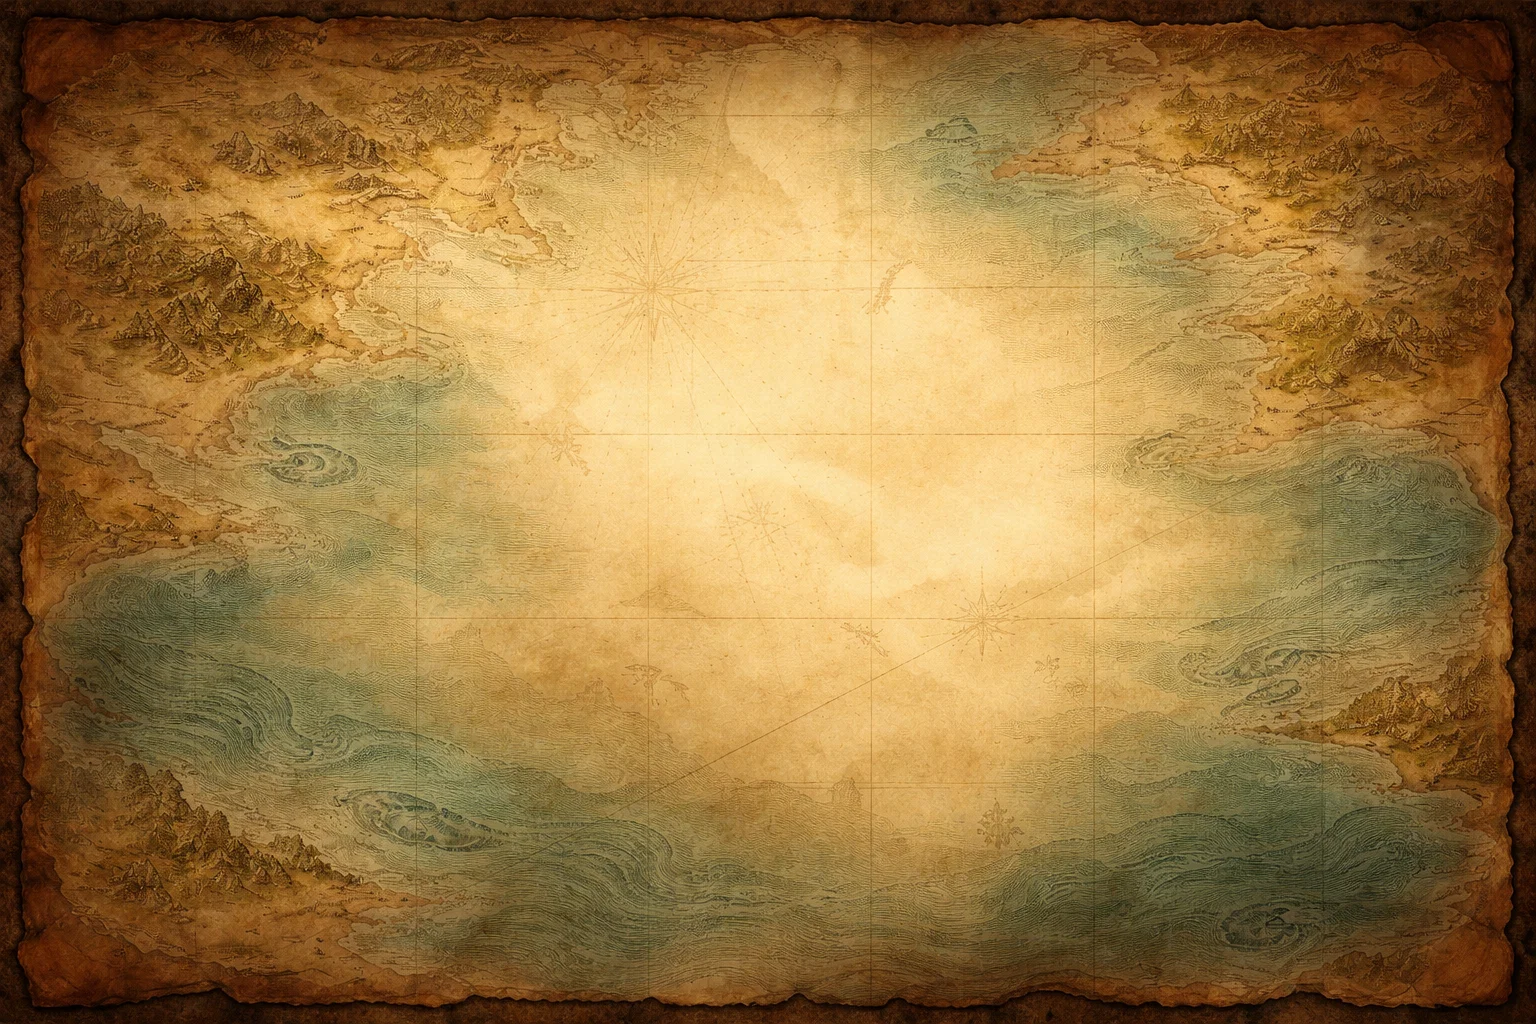
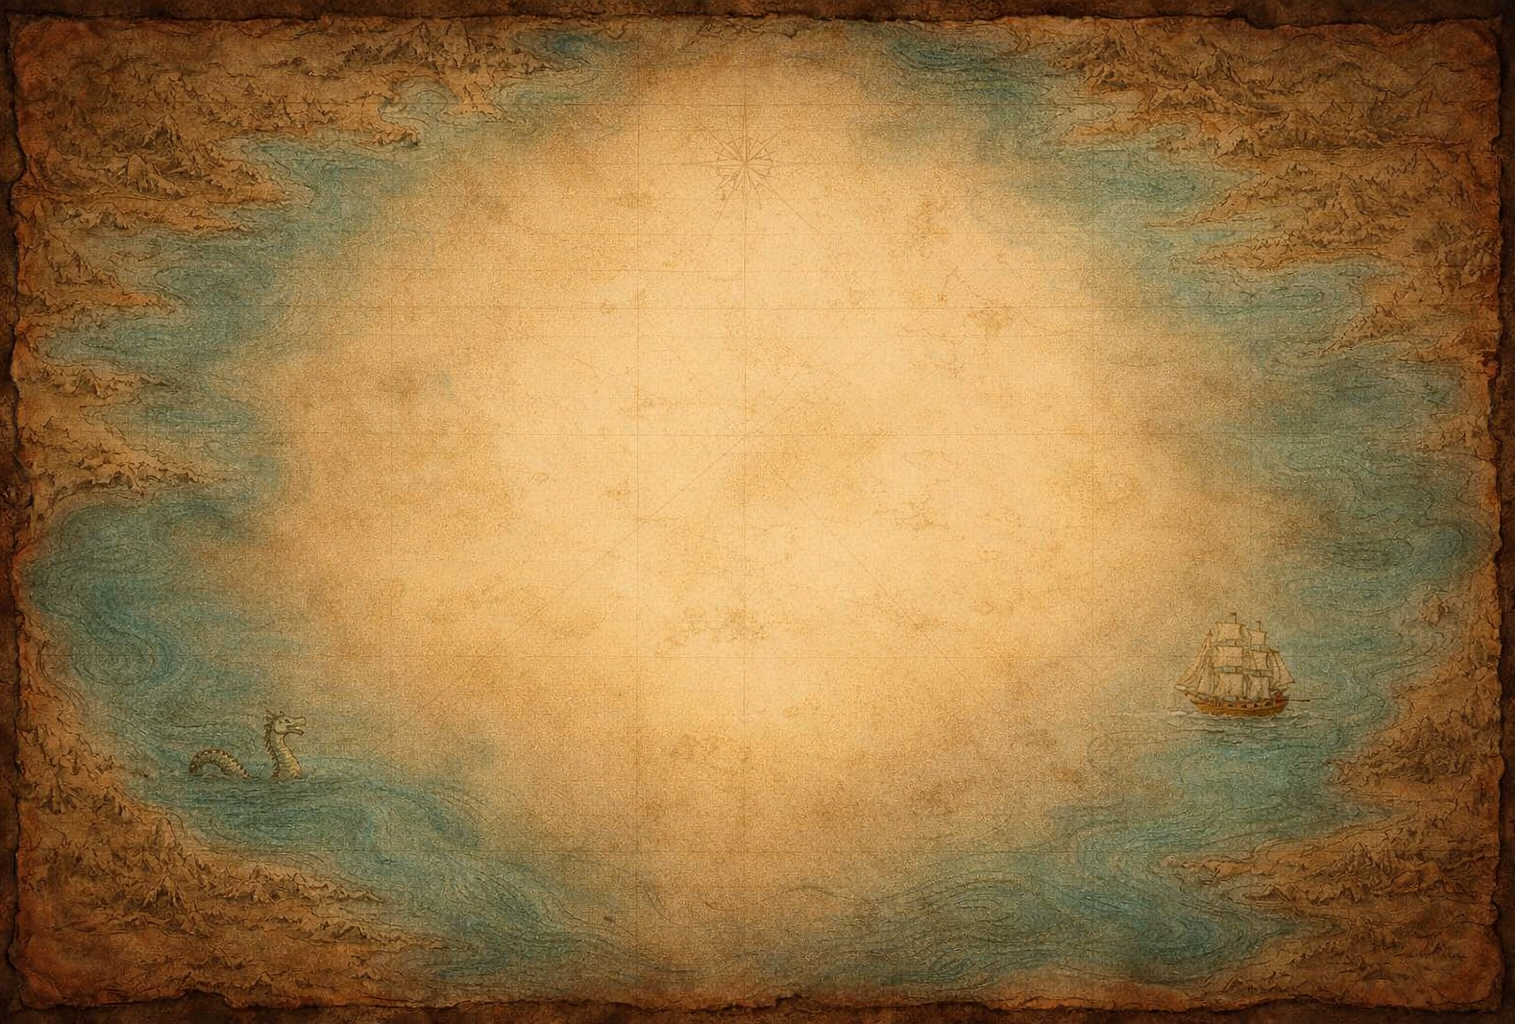
Redesign 'Home' page

diff --git a/src/pages/Home.tsx b/src/pages/Home.tsx
@@ -1,7 +1,6 @@
 import { useNavigate } from "react-router-dom"
 import "../css/general.css"
-import "../css/map-buttons.css"
-import "../css/map-icons.css"
+import "../css/map.css"
 
 import mapBg from "../assets/images/backgrounds/map.png"
 
@@ -23,74 +22,25 @@ const SOCIAL_LINKS = {
   substack: "https://kenzysoror.substack.com/",
 }
 
-const MAP_ITEMS = [
-  {
-    id: "about",
-    label: "About Me",
-    icon: aboutIcon,
-    type: "internal",
-    target: "/about",
-    style: { top: "28%", left: "30%" },
-  },
-  {
-    id: "media",
-    label: "In the Media",
-    icon: mediaIcon,
-    type: "internal",
-    target: "/media",
-    style: { top: "70%", left: "70%" },
-  },
-  {
-    id: "instagram",
-    label: "Instagram",
-    icon: instagramIcon,
-    type: "external",
-    target: SOCIAL_LINKS.instagram,
-    style: { top: "14%", left: "52%" },
-  },
-  {
-    id: "linkedin",
-    label: "LinkedIn",
-    icon: linkedinIcon,
-    type: "external",
-    target: SOCIAL_LINKS.linkedin,
-    style: { top: "52%", left: "42%" },
-  },
-  {
-    id: "x",
-    label: "X",
-    icon: xIcon,
-    type: "external",
-    target: SOCIAL_LINKS.x,
-    style: { top: "30%", left: "80%" },
-  },
-  {
-    id: "youtube",
-    label: "YouTube",
-    icon: youtubeIcon,
-    type: "external",
-    target: SOCIAL_LINKS.youtube,
-    style: { top: "83%", left: "45%" },
-  },
-  {
-    id: "github",
-    label: "GitHub",
-    icon: githubIcon,
-    type: "external",
-    target: SOCIAL_LINKS.github,
-    style: { top: "65%", left: "22%" },
-  },
-  {
-    id: "substack",
-    label: "Substack",
-    icon: substackIcon,
-    type: "external",
-    target: SOCIAL_LINKS.substack,
-    style: { top: "39%", left: "63%" },
-  },
-]
+interface MapItem {
+  id: string
+  label: string
+  icon: string
+  type: "internal" | "external"
+  target: string
+  style: React.CSSProperties
+}
 
-type MapItem = typeof MAP_ITEMS[number]
+const MAP_ITEMS: MapItem[] = [
+  { id: "about", label: "About Me", icon: aboutIcon, type: "internal", target: "/about", style: { top: "calc(50% - 23vh)", left: "calc(50% - 26vw)" } },
+  { id: "media", label: "In the Media", icon: mediaIcon, type: "internal", target: "/media", style: { top: "calc(50% + 13vh)", left: "calc(50% + 21vw)" } },
+  { id: "instagram", label: "Instagram", icon: instagramIcon, type: "external", target: SOCIAL_LINKS.instagram, style: { top: "calc(50% - 35vh)", left: "calc(50% - 1vw)" } },
+  { id: "linkedin", label: "LinkedIn", icon: linkedinIcon, type: "external", target: SOCIAL_LINKS.linkedin, style: { top: "calc(50% + 1vw)", left: "calc(50% - 12vw)" } },
+  { id: "x", label: "X", icon: xIcon, type: "external", target: SOCIAL_LINKS.x, style: { top: "calc(50% - 24vh)", left: "calc(50% + 30vw)" } },
+  { id: "youtube", label: "YouTube", icon: youtubeIcon, type: "external", target: SOCIAL_LINKS.youtube, style: { bottom: "calc(50% - 41vh)", left: "calc(50% + 3vw)" } },
+  { id: "github", label: "GitHub", icon: githubIcon, type: "external", target: SOCIAL_LINKS.github, style: { bottom: "calc(50% - 26vh)", left: "calc(50% - 28vw)" } },
+  { id: "substack", label: "Substack", icon: substackIcon, type: "external", target: SOCIAL_LINKS.substack, style: { top: "calc(50% - 12vh)", right: "calc(50% - 22vw)" } },
+]
 
 export default function Home() {
   const navigate = useNavigate()
@@ -104,21 +54,20 @@ export default function Home() {
   }
 
   return (
-    <div
-      className="page map-page"
-      style={{ backgroundImage: `url(${mapBg})` }}
-    >
-      {MAP_ITEMS.map((item) => (
-        <div
-          key={item.id}
-          className="map-icon"
-          style={item.style}
-          onClick={() => handleClick(item)}
-        >
-          <img src={item.icon} alt={item.label} />
-          <div className="map-label">{item.label}</div>
-        </div>
-      ))}
+    <div className="page map-page" style={{ backgroundImage: `url(${mapBg})` }}>
+      <div className="map-container">
+        {MAP_ITEMS.map((item) => (
+          <div
+            key={item.id}
+            className="map-icon"
+            style={item.style}
+            onClick={() => handleClick(item)}
+          >
+            <img src={item.icon} alt={item.label} />
+            <div className="map-label">{item.label}</div>
+          </div>
+        ))}
+      </div>
     </div>
   )
 }

diff --git a/src/css/map.css b/src/css/map.css
@@ -1,11 +1,34 @@
+.map-page {
+  display: flex;
+  justify-content: center;
+  align-items: center;
+}
+
+.map-container {
+  position: absolute;
+  top: 50%;
+  left: 50%;
+  transform: translate(-50%, -50%);
+  max-width: 80vw;
+  max-height: 70vh;
+  width: 100%;
+  height: 100%;
+  padding: clamp(20px, 4vh, 40px);
+  box-sizing: border-box;
+}
+
 .map-icon {
   position: absolute;
-  transform: translate(-50%, -50%);
   cursor: pointer;
+  display: flex;
+  flex-direction: column;
+  align-items: center;
+  gap: clamp(6px, 1.5vh, 12px);
+  transform: translate(-50%, -50%);
 }
 
 .map-icon img {
-  width: clamp(10px, 10vh, 20px);
+  width: clamp(50px, 19vmin, 120px);
   height: auto;
   transition: transform 0.2s ease;
 }
@@ -14,21 +37,17 @@
   transform: scale(1.1);
 }
 
-.map-page {
-  padding-bottom: 48px;
-  box-sizing: border-box;
-}
-
 .map-label {
   position: absolute;
   top: 100%;
   left: 50%;
   transform: translate(-50%, 0);
 
-  font-size: 20px;
-  font-family: "Satisfy", "Kalam", Georgia, serif;
+  font-size: clamp(16px, 3.5vmin, 24px);
+  font-family: "Seaweed Script", "Satisfy", "Kalam", Georgia, serif;
   font-weight: 900;
-  letter-spacing: 2px;
+  letter-spacing: 1.5px;
+  line-height: 1.6;
 
   color: #800000;
 

diff --git a/src/css/about.css b/src/css/about.css
@@ -6,7 +6,7 @@
 
 .about-content {
   max-width: 80vw;
-  max-height: 80vh;
+  max-height: 70vh;
   overflow-y: auto;
 
   padding: clamp(10px, 2vw, 15px);
